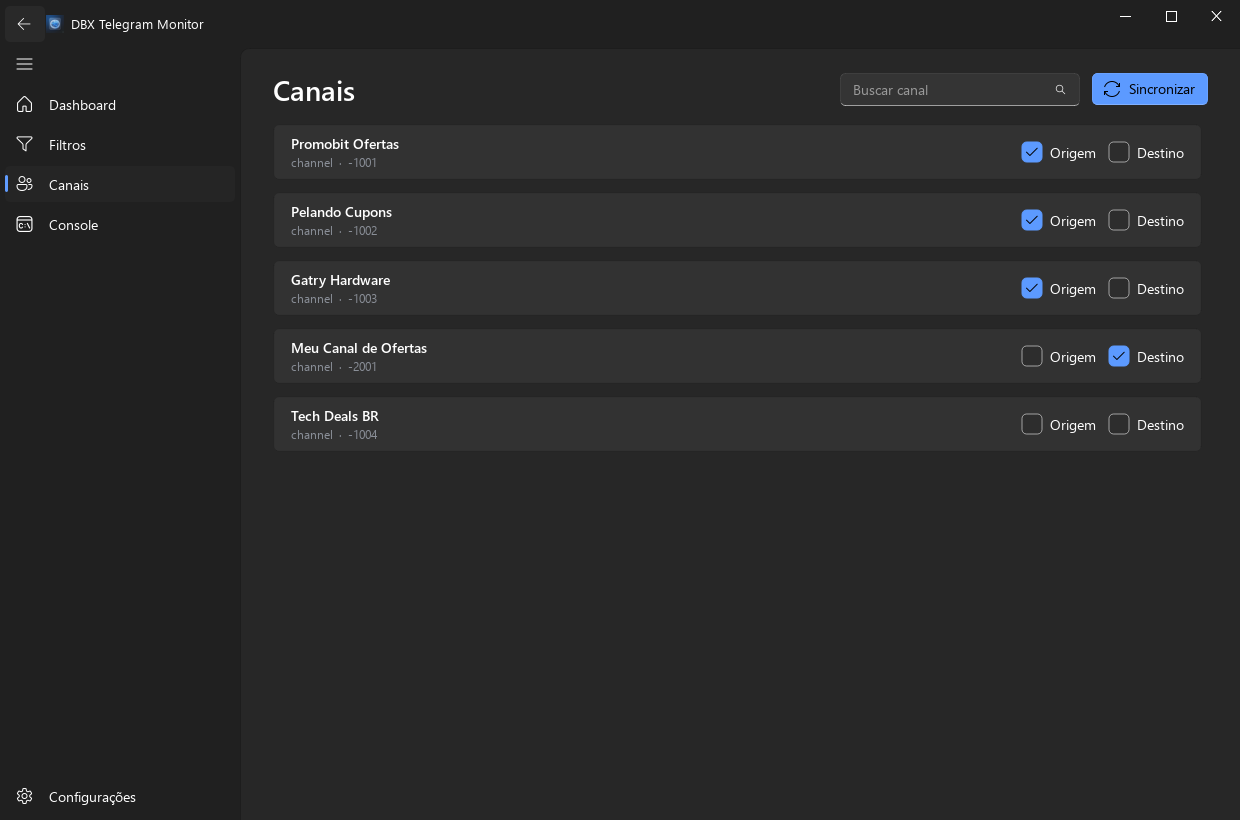
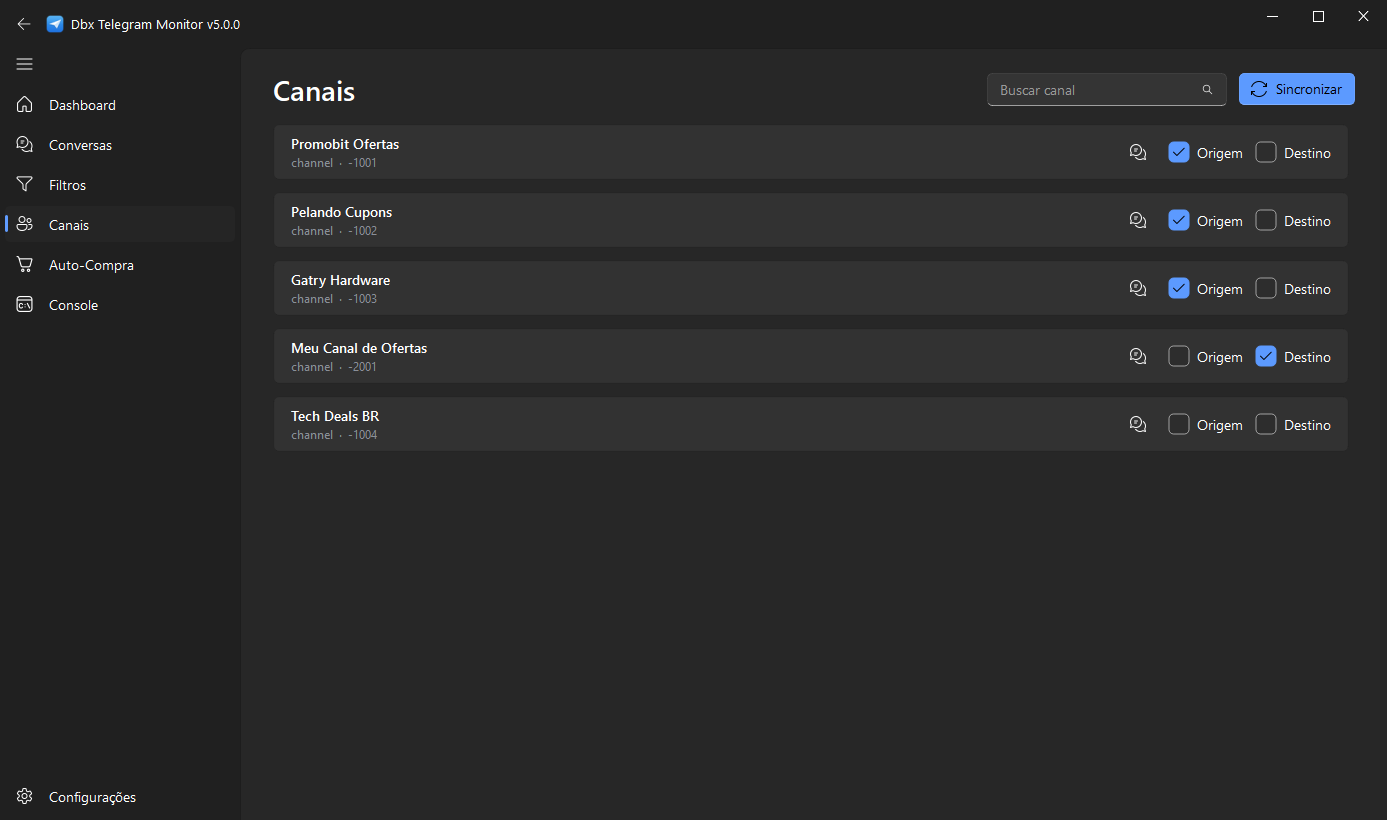
docs: documenta a tela Conversas e atualiza as capturas

diff --git a/scripts/screenshot.py b/scripts/screenshot.py
@@ -2,21 +2,73 @@ from __future__ import annotations
 
 import asyncio
 import sys
+from datetime import datetime, timedelta, timezone
 from pathlib import Path
 
 sys.path.insert(0, str(Path(__file__).resolve().parent.parent))
 
 import qasync
 from PyQt6.QtGui import QFont, QFontDatabase
-from PyQt6.QtTest import QTest
 from PyQt6.QtWidgets import QApplication
 
 from monitor.models import Channel, ChannelKind, EngineState, Filter, LogLevel
+from monitor.reader import ChatMessage, ChatSummary
 from ui.theme import apply_theme
 from ui.window import AppWindow
 
 OUT = Path(__file__).resolve().parent.parent / ".screens"
 OUT.mkdir(exist_ok=True)
+
+NOW = datetime.now(timezone.utc)
+
+DEMO_CHATS = [
+    ChatSummary(id=-1002, name="Pelando Cupons", kind=ChannelKind.CHANNEL, username="pelando",
+                preview="Cupom MELI50 no Mercado Livre", date=NOW, unread=3, participants=84000),
+    ChatSummary(id=-1001, name="Promobit Ofertas", kind=ChannelKind.CHANNEL, username="promobit",
+                preview="Frete grátis na Amazon hoje", date=NOW - timedelta(hours=2), unread=0),
+    ChatSummary(id=-1003, name="Gatry Hardware", kind=ChannelKind.GROUP,
+                preview="SSD 1TB NVMe por R$ 329", date=NOW - timedelta(days=1), unread=7),
+    ChatSummary(id=-2001, name="Meu Canal de Ofertas", kind=ChannelKind.CHANNEL,
+                preview="Replicado", date=NOW - timedelta(days=3), unread=0),
+]
+
+DEMO_HISTORY = [
+    ChatMessage(id=101, chat_id=-1002, text="Bom dia! Abrindo a rodada de cupons de hoje.",
+                date=NOW - timedelta(days=1, hours=4), sender_id=1, sender_name="Pelando"),
+    ChatMessage(id=102, chat_id=-1002, text="", date=NOW - timedelta(hours=5), sender_id=1,
+                sender_name="Pelando", media_kind="photo", media_label="Foto"),
+    ChatMessage(id=103, chat_id=-1002,
+                text="Cupom MELI50 - 30% OFF no Mercado Livre\nhttps://mercadolivre.com.br/oferta\nSó até meia-noite!",
+                date=NOW - timedelta(hours=3), sender_id=1, sender_name="Pelando", views=21430),
+    ChatMessage(id=104, chat_id=-1002, text="Frete grátis acima de R$ 79 na Amazon",
+                date=NOW - timedelta(hours=1), sender_id=1, sender_name="Pelando", views=9120),
+    ChatMessage(id=105, chat_id=-1002, text="tabela-de-cupons.pdf", date=NOW - timedelta(minutes=25),
+                sender_id=1, sender_name="Pelando", media_kind="file", media_label="tabela-de-cupons.pdf"),
+]
+
+
+class DemoReader:
+    available = True
+
+    async def dialogs(self, limit=200):
+        return list(DEMO_CHATS)
+
+    async def history(self, chat_id, limit=40, before_id=None):
+        if before_id or chat_id != -1002:
+            return []
+        return list(DEMO_HISTORY)
+
+    async def search(self, chat_id, query, limit=60):
+        return []
+
+    async def avatar(self, chat_id):
+        return None
+
+    async def thumbnail(self, chat_id, message_id):
+        return None
+
+    def forget(self):
+        pass
 
 
 def register_fonts(app: QApplication) -> None:
@@ -30,6 +82,10 @@ def pump(app: QApplication, times: int = 30) -> None:
         app.processEvents()
 
 
+def settle(loop: asyncio.AbstractEventLoop, seconds: float = 0.45) -> None:
+    loop.run_until_complete(asyncio.sleep(seconds))
+
+
 def main() -> int:
     app = QApplication(sys.argv)
     register_fonts(app)
@@ -37,7 +93,9 @@ def main() -> int:
     loop = qasync.QEventLoop(app)
     asyncio.set_event_loop(loop)
 
+    AppWindow.open_setup_wizard = lambda self: None
     window = AppWindow(loop)
+    window.engine.reader = DemoReader()
     window.setMicaEffectEnabled(False)
     window.resize(1240, 820)
     window.show()
@@ -70,11 +128,11 @@ def main() -> int:
     metrics.by_hour = hours
 
     events = [
-        {"time": "14:02:11", "source": "Pelando Cupons", "text": "Cupom MELI50 - 30% OFF no Mercado Livre", "status": "captured"},
-        {"time": "14:02:12", "source": "Meu Canal de Ofertas", "text": "Replicado", "status": "forwarded"},
-        {"time": "14:03:48", "source": "Gatry Hardware", "text": "SSD 1TB NVMe com frete grátis", "status": "captured"},
-        {"time": "14:03:49", "source": "Meu Canal de Ofertas", "text": "Replicado", "status": "forwarded"},
-        {"time": "14:05:02", "source": "Promobit Ofertas", "text": "Erro: canal sem permissão", "status": "failed"},
+        {"time": "14:02:11", "source": "Pelando Cupons", "text": "Cupom MELI50 - 30% OFF no Mercado Livre", "status": "captured", "chat_id": -1002},
+        {"time": "14:02:12", "source": "Meu Canal de Ofertas", "text": "Replicado", "status": "forwarded", "chat_id": -2001},
+        {"time": "14:03:48", "source": "Gatry Hardware", "text": "SSD 1TB NVMe com frete grátis", "status": "captured", "chat_id": -1003},
+        {"time": "14:03:49", "source": "Meu Canal de Ofertas", "text": "Replicado", "status": "forwarded", "chat_id": -2001},
+        {"time": "14:05:02", "source": "Promobit Ofertas", "text": "Erro: canal sem permissão", "status": "failed", "chat_id": -1001},
     ]
     logs = [
         ("Conectado como Vinicius", LogLevel.SUCCESS),
@@ -96,8 +154,14 @@ def main() -> int:
     window.channels_page.refresh()
     window.settings_page.load()
 
+    window.messages_page.reload_chats()
+    settle(loop)
+    window.messages_page.open_chat(-1002)
+    settle(loop)
+
     captures = {
         "dashboard": window.dashboard,
+        "conversas": window.messages_page,
         "filtros": window.filters_page,
         "canais": window.channels_page,
         "console": window.console_page,
@@ -105,7 +169,7 @@ def main() -> int:
     }
     for name, page in captures.items():
         window.switchTo(page)
-        QTest.qWait(450)
+        settle(loop)
         window.grab().save(str(OUT / f"{name}.png"))
         print("salvo", name)
 

diff --git a/README.md b/README.md
@@ -13,6 +13,7 @@ Monitor e replicador de mensagens do Telegram com interface desktop moderna. Cap
 ## Destaques
 
 - Interface Fluent Design escura, fluida e nativa do Windows 11, construída com PyQt6 e QFluentWidgets.
+- Leitor de conversas embutido: navegue pelos seus canais e leia o histórico em balões, como no Telegram, sem sair do app.
 - Replicação em tempo real preservando a mensagem original, com encaminhamento nativo e cópia automática como alternativa.
 - Filtros inteligentes que detectam cupons, frete grátis, cashback, descontos e lojas sem precisar cadastrar cada código.
 - Filtros por palavra com lógica de inclusão e exclusão, suporte a junção obrigatória com `+` e alternativas com `ou`.
@@ -22,6 +23,8 @@ Monitor e replicador de mensagens do Telegram com interface desktop moderna. Cap
 - Credenciais e sessões guardadas localmente, fora do controle de versão.
 
 ## Capturas de tela
+
+![Conversas](docs/screenshots/conversas.png)
 
 | Filtros | Canais |
 | :---: | :---: |
@@ -36,6 +39,14 @@ Monitor e replicador de mensagens do Telegram com interface desktop moderna. Cap
 Você marca canais de **origem** (monitorados) e de **destino** (para onde replicar). Cada mensagem nova nas origens passa pelos filtros ativos. Se algum filtro aprovar, a mensagem é replicada para os destinos daquele filtro ou para os destinos padrão.
 
 Os filtros inteligentes analisam o texto e reconhecem padrões reais de oferta. Em vez de cadastrar `MELI50`, `PRAVC` ou `VALE100`, você ativa a regra `Qualquer cupom` e o detector captura qualquer código válido, com proteção contra falsos positivos.
+
+## Conversas
+
+A aba **Conversas** é um leitor de Telegram dentro do app. À esquerda ficam seus canais, grupos e conversas, com foto, prévia da última mensagem e contador de não lidas. À direita, a conversa escolhida em balões, agrupada por dia, com miniatura das fotos, links clicáveis e rolagem infinita para trás.
+
+Duas coisas que o Telegram não faz: cada mensagem mostra **quais filtros seus a replicariam** e o que o detector encontrou nela (cupom, frete grátis, loja), então dá para testar um filtro contra mensagens reais antes de confiar nele. E dá para marcar o canal como Origem ou Destino sem sair da leitura.
+
+Nada é enviado por essa tela: ela só lê. Mensagens novas aparecem sozinhas enquanto o monitor está online, e clicar em um evento do Dashboard abre a conversa correspondente.
 
 ## Stack
 
@@ -71,6 +82,7 @@ No Windows você também pode iniciar com um duplo clique em `ABRIR.bat`.
 2. Salve e clique em **Iniciar monitor** no Dashboard. Na primeira vez o Telegram envia um código de verificação, que você digita na janela que aparece.
 3. Abra a aba **Canais**, clique em **Sincronizar** e marque cada canal como Origem ou Destino.
 4. Em **Filtros**, crie um novo filtro com palavras ou detecção inteligente.
+5. Abra **Conversas** para ler os canais dentro do app e conferir quais mensagens seus filtros pegariam.
 
 ## Compra automática (BETA)
 
@@ -136,11 +148,12 @@ Dbx-Telegram-Monitor/
 │   ├── matching.py        Normalização e correspondência de palavras
 │   ├── detector.py        Detector de cupons e ofertas
 │   ├── filtering.py       Decisão de roteamento das mensagens
+│   ├── reader.py          Leitura de conversas, histórico, busca e mídia
 │   ├── engine.py          Motor assíncrono de monitoramento
 │   └── autobuy/           Compra automática: registry de lojas, drivers e checkout
 ├── ui/                    Interface PyQt6
 │   ├── window.py          Janela principal e orquestração
-│   ├── pages/             Dashboard, Filtros, Canais, Auto-Compra, Console, Configurações
+│   ├── pages/             Dashboard, Conversas, Filtros, Canais, Auto-Compra, Console, Configurações
 │   ├── dialogs.py         Diálogos de login e edição de filtro
 │   ├── widgets.py         Componentes visuais
 │   └── theme.py           Cores e tema
@@ -152,6 +165,7 @@ Dbx-Telegram-Monitor/
 
 - As credenciais ficam em um arquivo `.env` dentro de `%APPDATA%\DbxTelegramMonitor`, nunca no repositório.
 - As sessões do Telegram são salvas localmente e estão no `.gitignore`.
+- A aba Conversas é somente leitura: o app nunca envia, apaga ou marca mensagens como lidas por você. Fotos e avatares baixados ficam em cache em `%APPDATA%\DbxTelegramMonitor\media`.
 - Nada é enviado para servidores de terceiros. A comunicação acontece direto com a API do Telegram.
 
 ## Documentação técnica

diff --git a/ARQUITETURA.md b/ARQUITETURA.md
@@ -16,9 +16,10 @@ monitor/      Núcleo testável, independente de Qt
   config.py     AppConfig: leitura e escrita do .env
   models.py     Filter, Channel, Metrics, EngineState, LogLevel
   storage.py    FilterStore e ChannelCache em JSON
+  reader.py     ChatReader: diálogos, histórico, busca, avatares e miniaturas
   matching.py   normalização, variações e lógica de palavras (+ e ou)
   detector.py   CouponDetector e avaliação de smart rules
-  filtering.py  resolve_destinations, decisão de roteamento
+  filtering.py  matching_filters e resolve_destinations, decisão de roteamento
   engine.py     MonitorEngine: Telethon, dedup, rate limit, callbacks
   autobuy/      Compra automática multi-loja, separada do monitor
     models.py     WatchItem (produto vigiado), BuyResult, BuyStatus
@@ -37,7 +38,7 @@ monitor/      Núcleo testável, independente de Qt
     notify.py     notificação nas Mensagens Salvas do Telegram
 ui/           Interface PyQt6
   window.py     AppWindow, orquestra núcleo e telas
-  pages/        dashboard, filters, channels, autobuy, console, settings
+  pages/        dashboard, messages, filters, channels, autobuy, console, settings
   dialogs.py    CodeDialog, PasswordDialog, FilterDialog
   watch_dialog.py  editor de produto vigiado com palavras em chips e teste ao vivo
   chips.py      WordChips e FlowLayout para listas de palavras
@@ -56,6 +57,10 @@ Para adicionar uma loja: as funções de URL em `urls.py`, o driver com os dois 
 O `StoreSpec` declara as peculiaridades de cada loja. `requires_window=True` quando a loja bloqueia navegador headless: a Terabyte fica atrás do Cloudflare e responde 403 sem janela, então o manager ignora a preferência global e abre visível para ela. `can_checkout=False` marca loja cujo pagamento ainda não foi mapeado, para a interface avisar em vez de prometer compra.
 
 Os seletores vêm de mapeamento real no site, nunca de suposição, e há testes que travam as escolhas frágeis. Três armadilhas já custaram caro: na Amazon os `id` são gerados por sessão (`pp-8H7pkg-107`), então só `name` e `data-testid` servem; na Terabyte existe `#ppixcartao` (Pix + Cartão) ao lado de `#ppix` (PIX puro), e casar por `id*=pix` compraria metade no cartão; e a Terabyte devolve para `/Central.obj` quando a sessão expira, sem pedir login, o que o driver trata como `LOGIN_REQUIRED`.
+
+A leitura das conversas fica no `reader.py`, que só depende de um provedor de cliente Telethon e converte os objetos da biblioteca em `ChatSummary` e `ChatMessage`. Nada ali escreve no Telegram: a página Conversas lê o histórico, pagina para trás pelo `max_id`, busca dentro do canal e recebe as mensagens novas pelo callback `on_incoming` do motor, que dispara para toda mensagem, inclusive de canais que não são origem. Avatares e miniaturas ficam em cache no disco (`%APPDATA%\DbxTelegramMonitor\media`) e nunca são baixados duas vezes.
+
+O `matching_filters` existe para a interface poder dizer **qual** filtro casou com uma mensagem, e o `resolve_destinations` passou a ser uma casca em cima dele. Na thread de leitura cada mensagem mostra os filtros que a replicariam e o que o detector achou, o que transforma a tela em um laboratório de teste de filtros com mensagens reais.
 
 A interface conversa com o núcleo apenas pela `AppWindow`, que detém a configuração, os filtros, o cache de canais e o motor. O motor recebe callbacks (`on_state`, `on_log`, `on_event`, `on_metrics`) e provedores assíncronos de código e senha. Como tudo roda no mesmo loop do qasync, os callbacks atualizam a interface diretamente.
 
